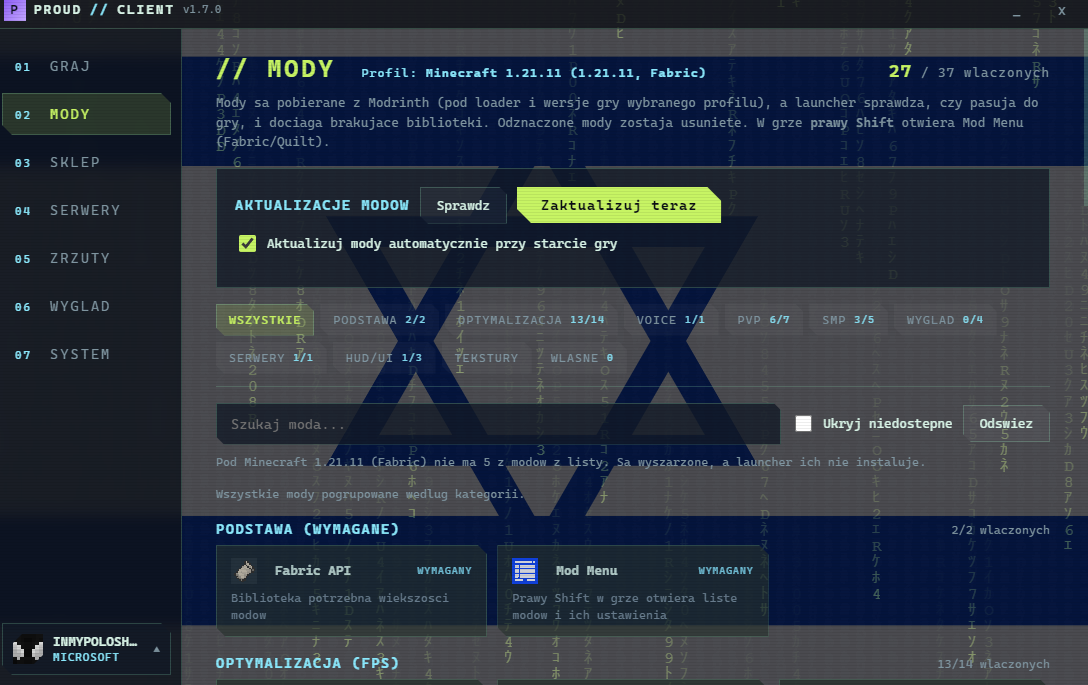
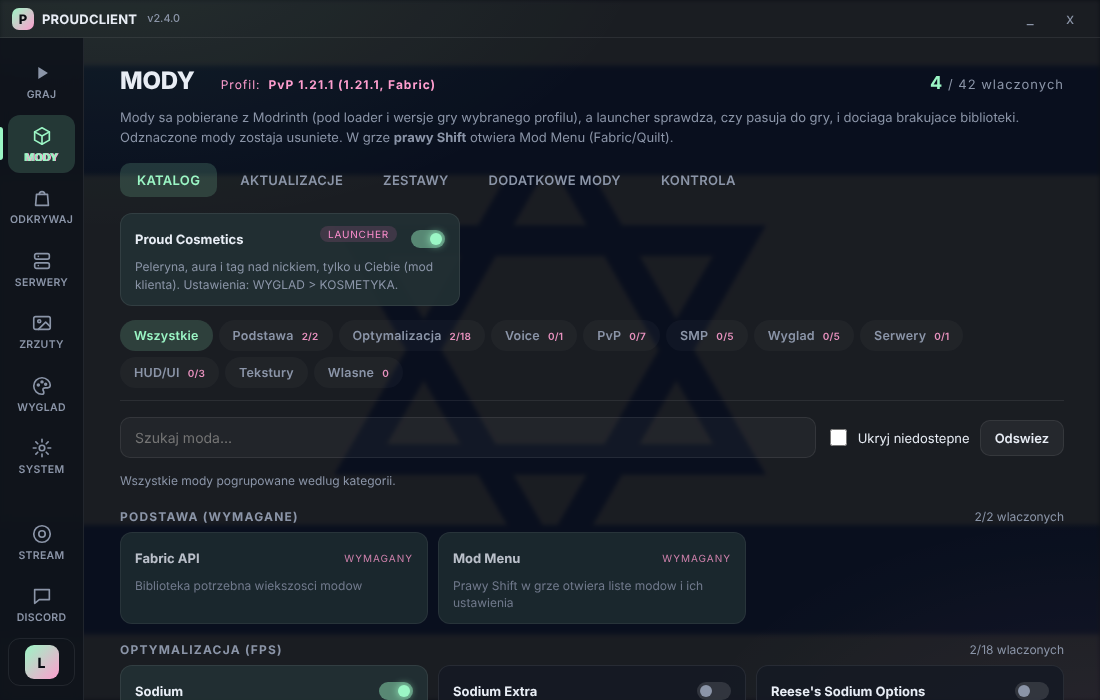
update readme

diff --git a/README.md b/README.md
@@ -2,7 +2,7 @@
 
 <img src="assets/banner.png" alt="Proud Client" width="100%">
 
-### Launcher Minecraft: profile, Fabric / Quilt / Forge / NeoForge, sklep shaderów i skin 3D
+### Launcher Minecrafta: profile, Fabric / Quilt / Forge / NeoForge, shadery, skiny i własny wygląd menu gry
 
 [![Pobierz](https://img.shields.io/badge/POBIERZ-Windows-9bf6c5?style=for-the-badge&labelColor=0b0e17)](https://github.com/exifez/PROUD-CLIENT/releases/latest)
 [![Wersja](https://img.shields.io/github/v/release/exifez/PROUD-CLIENT?style=for-the-badge&color=ff8fc8&labelColor=0b0e17&label=wersja)](https://github.com/exifez/PROUD-CLIENT/releases/latest)
@@ -10,7 +10,7 @@
 [![Discord](https://img.shields.io/badge/DISCORD-do%C5%82%C4%85cz-5865F2?style=for-the-badge&labelColor=0b0e17&logo=discord&logoColor=white)](https://discord.gg/rQ9YknS5c)
 [![Licencja](https://img.shields.io/badge/licencja-MIT-6ec5ff?style=for-the-badge&labelColor=0b0e17)](LICENSE)
 
-[**Pobierz**](https://github.com/exifez/PROUD-CLIENT/releases/latest) · [Funkcje](#funkcje) · [Instalacja](#instalacja) · [Loadery](#loadery-modów) · [FAQ](#najczęstsze-pytania) · [Historia zmian](CHANGELOG.md) · [Zgłoś problem](https://github.com/exifez/PROUD-CLIENT/issues/new/choose) · [Discord](https://discord.gg/rQ9YknS5c)
+[**Pobierz**](https://github.com/exifez/PROUD-CLIENT/releases/latest) · [Funkcje](#funkcje) · [Zrzuty](#zrzuty-ekranu) · [Instalacja](#instalacja) · [Loadery](#loadery-modów) · [FAQ](#najczęstsze-pytania) · [Historia zmian](CHANGELOG.md) · [Zgłoś problem](https://github.com/exifez/PROUD-CLIENT/issues/new/choose) · [Discord](https://discord.gg/rQ9YknS5c)
 
 </div>
 
@@ -18,7 +18,7 @@
 
 ## Co to jest
 
-**Proud Client** to launcher Minecrafta, który sam instaluje loader, dobrane mody i dodatki. Wybierasz profil, klikasz **GRAJ** i gotowe: więcej FPS, voicechat, mody pod PvP i SMP, shadery, własny wygląd menu gry i skin zmieniany prosto z launchera.
+**Proud Client** to launcher Minecrafta, który sam instaluje loader, dobrane mody i dodatki. Wybierasz profil, klikasz **GRAJ** i gotowe: więcej FPS, voicechat, mody pod PvP i SMP, shadery, własny wygląd menu gry i skiny zmieniane prosto z launchera. Pliki (mody, modpacki, paczki tekstur, shadery, skiny) wystarczy **przeciągnąć na okno**.
 
 <p align="center"><img src="assets/home.png" width="88%" alt="Ekran główny Proud Client"></p>
 
@@ -26,53 +26,50 @@
 
 | | |
 |---|---|
-| 🗂 **Wiele profili** | Każdy z własną wersją gry, loaderem, modami, światami i ustawieniami. Duplikowanie, zmiana nazwy, usuwanie. |
+| 🗂 **Wiele profili** | Każdy z własną wersją gry, loaderem, modami, światami i ustawieniami. Duplikowanie, zmiana nazwy, usuwanie. Profil można wysłać znajomemu małym plikiem `.proudprofile` (lista modów, bez plików .jar). |
 | 🧩 **Fabric, Quilt, Forge, NeoForge** | Loader instaluje się sam przy pierwszym starcie profilu. |
-| 🛒 **Sklep** | Shadery, paczki tekstur i modpacki z Modrinth jednym kliknięciem. Modpack tworzy nowy profil. |
-| ⚡ **Optymalizacja FPS** | Sodium, Lithium, FerriteCore i inne, z presetami dla słabego PC, zbalansowanym i jakościowym. |
-| 🔄 **Aktualizacje modów** | Podgląd, co ma nowszą wersję, przycisk „Zaktualizuj teraz” albo automatycznie przy starcie gry. |
-| 🧍 **Skin 3D** | Podgląd postaci w 3D i zmiana skina na koncie Microsoft bez wchodzenia na stronę Mojang. |
+| 🧲 **Przeciągnij i upuść** | Mody `.jar`, modpacki `.mrpack`, paczki tekstur, shadery, skiny, peleryny i profile same trafiają tam, gdzie trzeba. |
+| 🔎 **Odkrywaj** | Shadery, paczki tekstur i modpacki z Modrinth jednym kliknięciem, z aktualizacjami paczek i shaderów. Modpack tworzy nowy profil. |
+| ⚡ **Optymalizacja FPS** | Sodium, Lithium, FerriteCore i inne, z presetami dla słabego PC, zbalansowanym i jakościowym oraz gotowymi flagami JVM. |
+| 🔄 **Aktualizacje modów** | Mody aktualizują się przy każdym starcie gry, a po aktualizacji można wrócić do poprzedniej wersji moda. |
+| 🧍 **Skin 3D i biblioteka skinów** | Podgląd postaci w 3D, zmiana skina na koncie Microsoft bez wchodzenia na stronę Mojang i zapisane skiny przełączane jednym kliknięciem. |
 | ☕ **Automatyczna Java** | Launcher pobiera Javę potrzebną dla wybranej wersji gry. |
-| 💾 **Kopie zapasowe światów** | Przed grą i po niej, z przywracaniem jednym kliknięciem. |
+| 💾 **Światy** | Lista światów, **Graj** wchodzi prosto do świata, eksport do ZIP, kopie zapasowe przed grą i po niej z przywracaniem. |
+| 📥 **Import z innych launcherów** | Światy, serwery, ustawienia, paczki tekstur i shadery z oficjalnego launchera, TLaunchera, Prisma i MultiMC. |
 | 🎮 **PvP i SMP** | Mod Menu pod prawym Shiftem, FPS overlay, Fullbright, HUD i inne. |
 | 🎙 **Voice chat** | Simple Voice Chat gotowy do gry. |
 | 🌐 **ViaFabricPlus** | Wejście na serwery działające na innej wersji gry. |
-| 🎨 **Własny wygląd** | Paczki tekstur Visuals, Proud PVP i Proud Gear, własne tło menu, 12 motywów, tło launchera, opcjonalne dźwięki. |
+| 🎨 **Własny wygląd** | Paczki tekstur Visuals (nowe menu gry w pięciu kolorach), Proud PVP i Proud Gear, własne tło menu, kolejność paczek, motywy launchera, opcjonalne dźwięki. |
 | 👥 **Wiele kont** | Konta Microsoft i offline, szybkie przełączanie. |
-| 📡 **Serwery** | Lista ulubionych ze statusem na żywo, polecane serwery i dołączanie jednym kliknięciem. |
-| 💬 **Discord Rich Presence** | Na Discordzie widać „Proud Client”, wersję gry i serwer. |
-| 📊 **Statystyki** | Czas gry, najczęściej grane wersje i serwery. |
-| 🌍 **Polski i עברית** | Pełny interfejs po polsku i hebrajsku (z układem od prawej do lewej). |
-| 🔔 **Powiadomienia** | Informacja o nowej wersji Minecrafta, automatyczne aktualizacje launchera. |
+| 📡 **Serwery** | Ulubione ze statusem na żywo, nickami graczy i czasem gry, polecane serwery, powiadomienie gdy ulubiony serwer wróci online, wysyłanie listy do gry. |
+| 💬 **Discord** | Rich Presence, a zrzuty ekranu można wysłać na kanał przez webhook. |
+| 🎥 **Tryb stream** | Jednym skrótem (Ctrl+Shift+S) ukrywa nick, adresy serwerów, ścieżki i logi oraz wyłącza Rich Presence. |
+| 🖥 **Konsola gry w osobnym oknie** | Z kopiowaniem linku do logu na mclo.gs. |
+| ⌨ **Paleta poleceń** | Ctrl+K: szybkie przejście na stronę, start gry, zmiana profilu. |
+| 📊 **Statystyki** | Czas gry, wykres ostatnich 14 dni, najczęściej grane wersje i serwery. |
+| 🌍 **Polski, English i עברית** | Interfejs po polsku i angielsku, a po hebrajsku z układem od prawej do lewej (tłumaczenia mogą być niepełne). |
+| 🔔 **Aktualizacje** | Nowe wersje launchera instalują się same, a launcher informuje też o nowych wersjach Minecrafta. |
 
 ## Zrzuty ekranu
 
 <p align="center">
-  <img src="assets/profiles.png" width="49%" alt="Nowy profil: wersja gry i loader">
-  <img src="assets/mods.png" width="49%" alt="Mody i aktualizacje">
-</p>
-<p align="center">
-  <img src="assets/store.png" width="49%" alt="Sklep: shadery">
-  <img src="assets/store-modpacks.png" width="49%" alt="Sklep: modpacki">
-</p>
-<p align="center">
-  <img src="assets/store-textures.png" width="49%" alt="Sklep: paczki tekstur">
+  <img src="assets/mods.png" width="49%" alt="Mody i kategorie">
   <img src="assets/servers.png" width="49%" alt="Serwery ze statusem na żywo">
 </p>
 <p align="center">
-  <img src="assets/skin.png" width="49%" alt="Skin 3D">
-  <img src="assets/system.png" width="49%" alt="Ustawienia RAM">
+  <img src="assets/look.png" width="49%" alt="Wygląd i kosmetyka">
+  <img src="assets/system.png" width="49%" alt="Import z innego launchera">
 </p>
-<p align="center">
-  <img src="assets/stats.png" width="49%" alt="Statystyki">
-  <img src="assets/profile-tools.png" width="49%" alt="Eksport i import profili">
-</p>
+
+<sub>Zrzuty pokazują przykładowe dane (np. serwery `example.com`).</sub>
 
 ## Instalacja
 
 1. Wejdź w [**Releases**](https://github.com/exifez/PROUD-CLIENT/releases/latest) i pobierz `Proud-Client-Setup-<wersja>.exe`.
 2. Uruchom instalator.
 3. Zaloguj się kontem Microsoft (albo dodaj konto offline) i kliknij **GRAJ**.
+
+Instalacja jest dla jednego konta Windows i nie wymaga uprawnień administratora. Odinstalowanie nie usuwa Twoich danych.
 
 Java jest pobierana automatycznie, nie musisz niczego instalować ręcznie.
 
@@ -87,7 +84,7 @@ Java jest pobierana automatycznie, nie musisz niczego instalować ręcznie.
 | **Forge** | Modpacki i mody z Modrinth | Instalator uruchamia się przy pierwszym starcie profilu |
 | **NeoForge** | Nowsze modpacki (Minecraft od 1.20.2) | Jak Forge |
 
-Katalog gotowych modów w zakładce MODY jest przygotowany pod Fabric i Quilt. Na Forge i NeoForge niedostępne pozycje są wyszarzone, resztę dodajesz ze **SKLEPU** (modpacki) albo jako własne mody.
+Katalog gotowych modów w zakładce MODY jest przygotowany pod Fabric i Quilt. Na Forge i NeoForge niedostępne pozycje są wyszarzone, resztę dodajesz z zakładki **ODKRYWAJ** (modpacki) albo jako własne mody.
 
 ## Najczęstsze pytania
 
@@ -100,13 +97,13 @@ Launcher pobiera mody, shadery i tekstury wyłącznie z Modrinth i sprawdza ich 
 <details>
 <summary><b>Czy mogę dodać własne mody?</b></summary>
 
-Tak, w zakładce MODY > WŁASNE, osobno dla każdego profilu.
+Tak, w zakładce MODY > WŁASNE, osobno dla każdego profilu. Pliki `.jar` możesz też po prostu przeciągnąć na okno launchera.
 </details>
 
 <details>
 <summary><b>Jak działają aktualizacje?</b></summary>
 
-Launcher sam sprawdza nowe wersje i pyta o restart (SYSTEM > Aktualizacje). Aktualizacje modów są w zakładce MODY.
+Aktualizacje launchera są obowiązkowe: nowa wersja pobiera się i instaluje sama, żeby wszyscy mieli tę samą, działającą wersję. Mody aktualizują się przy każdym starcie gry (MODY > Aktualizacje, tam też cofniesz moda do poprzedniej wersji).
 </details>
 
 <details>
@@ -119,6 +116,18 @@ W folderze `.proudclient` w `%APPDATA%`. Odinstalowanie launchera ich nie usuwa.
 <summary><b>Czy mogę zmienić skin, mając konto offline?</b></summary>
 
 Nie. Skin jest przypisany do konta Microsoft na serwerach Mojang, więc zmiana działa tylko po zalogowaniu kontem Microsoft.
+</details>
+
+<details>
+<summary><b>Jak przenieść światy z innego launchera?</b></summary>
+
+SYSTEM > Import z innego launchera. Launcher wykrywa oficjalny launcher, TLauncher, Prism i MultiMC, albo wskażesz folder sam. Oryginalne pliki zostają nietknięte, a mody trzeba pobrać ponownie z katalogu.
+</details>
+
+<details>
+<summary><b>Jak wysłać znajomemu mój zestaw modów?</b></summary>
+
+W oknie profilu kliknij **Udostępnij profil**. Powstaje mały plik `.proudprofile` z listą modów (bez plików .jar). Znajomy przeciąga go na okno launchera albo klika **Importuj profil**.
 </details>
 
 <details>

diff --git a/CHANGELOG.md b/CHANGELOG.md
@@ -3,6 +3,39 @@
 Najnowsze na górze. Pełne notatki każdej wersji są też na stronie [Releases](https://github.com/exifez/PROUD-CLIENT/releases).
 
 
+## 2.4.0
+- Import swiatow, ustawien, serwerow i paczek z innych launcherow
+- Aktualizacje paczek tekstur i shaderow z Modrinth
+- Motywy kolorystyczne menu gry
+
+## 2.3.0
+- Nowy wyglad menu glownego gry: logo proud, fioletowa mgla w tle, zaokraglone przyciski
+
+## 2.2.0
+- Przeciaganie plikow na okno (mody, modpacki, tekstury, shadery, skiny, profile)
+- SKLEP przemianowany na ODKRYWAJ, uporzadkowana zakladka MODY
+- Graj i Eksport swiatow, gracze online na serwerach
+- Udostepnianie profilu plikiem .proudprofile
+- Kolejnosc i podglad paczek tekstur, nowe mikstury w Proud PVP
+
+## 2.1.0
+- Nowy wyglad launchera (pasek z ikonami, czysty interfejs, Matrix domyslnie wylaczony)
+- Konsola gry w osobnym oknie, kopiowanie linku z mclo.gs
+- Biblioteka skinow, zrzuty na Discorda, powiadomienia o serwerach
+- Cofanie aktualizacji modow, wysylanie serwerow do gry, wykres czasu gry
+- Nowe tekstury: luk (PvP), pola tekstowe i suwaki (Visuals)
+
+## 2.0.0
+- Obowiazkowe aktualizacje launchera i modow
+- Ikona i czas gry przy serwerach, zarzadzanie swiatami, gotowe flagi JVM
+- Proud PVP: nowe serca, jablka, perla i totem
+- Paleta polecen Ctrl+K
+
+## 1.9.0
+- Ulubione serwery: gwiazdka, opis, ikona, grupa Ulubione i sortowanie
+- Tryb stream (Ctrl+Shift+S): rozmywa nick, adresy, logi i wylacza Discord Rich Presence
+- Proud Gear: nowe tekstury narzedzi (kilof, siekiera, lopata, motyka)
+
 ## 1.8.0
 
 - Kosmetyka w grze: wbudowany mod Proud Cosmetics (peleryna, aura, tag przy nicku) instaluje sie sam w profilach Fabric i Quilt, ustawienia w WYGLAD
